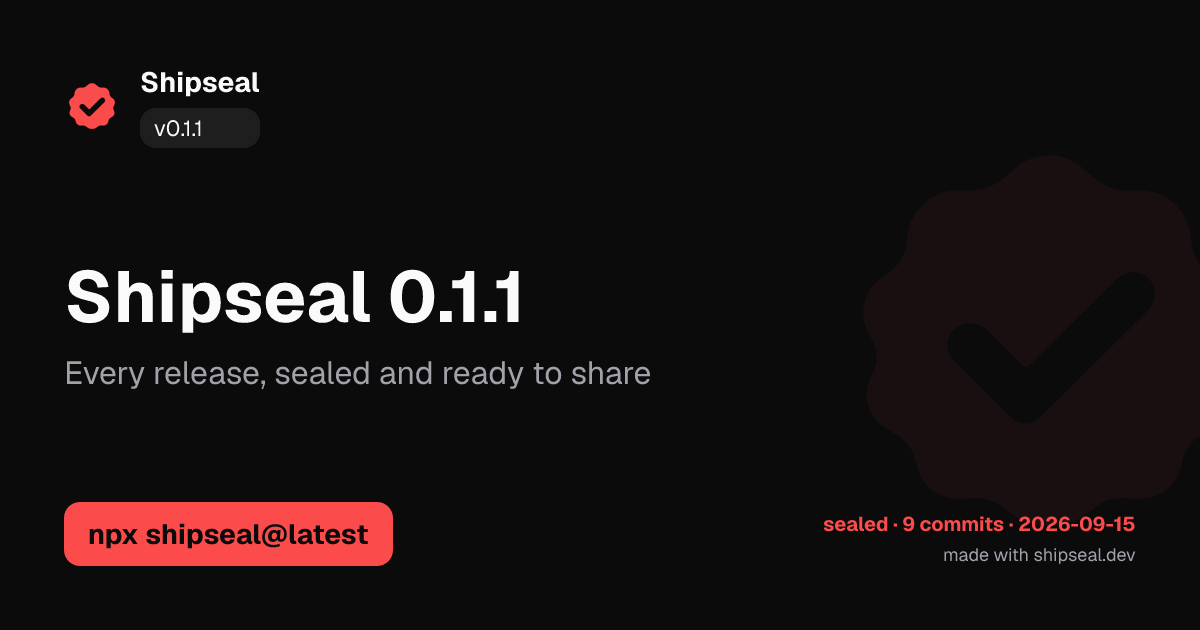
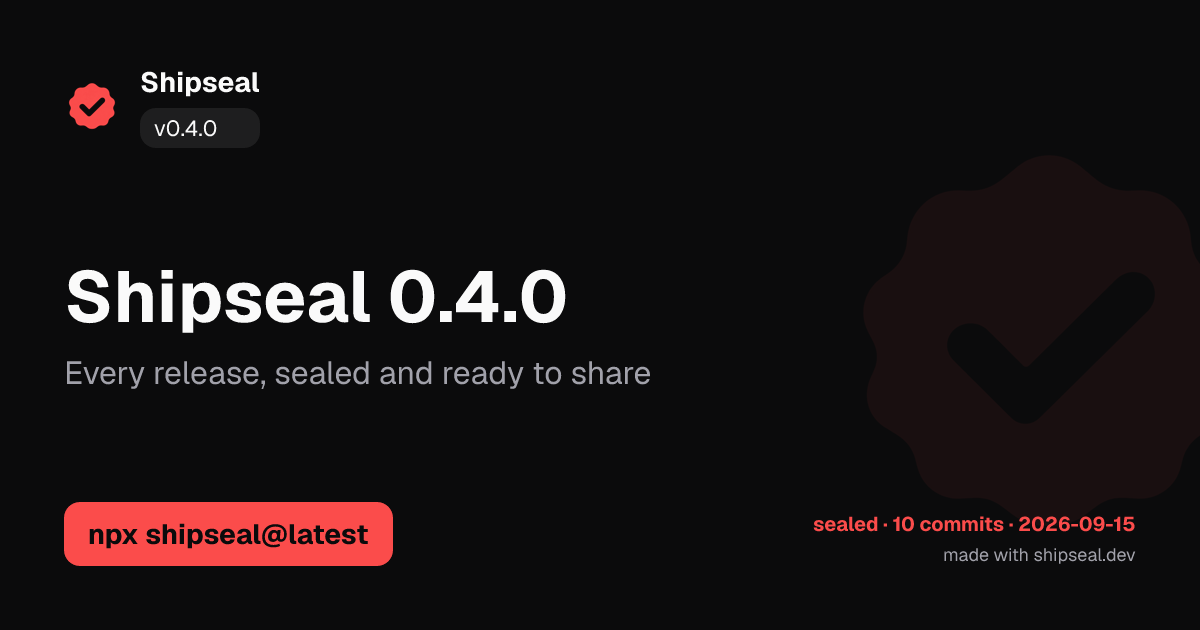
chore: update references to version v0.4.0 in documentation and examples

diff --git a/README.md b/README.md
@@ -17,7 +17,7 @@ Shipseal turns your repo's releases, milestones, and benchmarks into ready-to-po
 
 ## What it produces
 
-Every image below was generated by Shipseal for its own `v0.1.1` release, by the workflow in
+Every image below was generated by Shipseal for its own `v0.4.0` release, by the workflow in
 this repository. Nothing was edited by hand.
 
 <p align="center">
@@ -53,7 +53,7 @@ The percentage is computed from the two numbers you supply, never written by a m
 regression is rendered honestly as a regression.
 
 The same release also produced GitHub social, X, and LinkedIn sizes, plus a highlights card.
-See the [v0.1.1 release](https://github.com/akii09/shipseal/releases/tag/v0.1.1) for the whole
+See the [v0.4.0 release](https://github.com/akii09/shipseal/releases/tag/v0.4.0) for the whole
 pack, attached automatically by the Action.
 
 ## Why
@@ -89,7 +89,7 @@ jobs:
     steps:
       - uses: actions/checkout@v7
         with: { fetch-depth: 0 }
-      - uses: akii09/shipseal@v0.1.1
+      - uses: akii09/shipseal@v0.4.0
         env: { GITHUB_TOKEN: "${{ secrets.GITHUB_TOKEN }}" }
 ```
 

diff --git a/docs/PROJECT_PLAN.md b/docs/PROJECT_PLAN.md
@@ -990,7 +990,7 @@ jobs:
       - uses: actions/checkout@v7
         with:
           fetch-depth: 0   # required: full history and tags for release facts
-      - uses: akii09/shipseal@v0.1.1
+      - uses: akii09/shipseal@v0.4.0
         env:
           GITHUB_TOKEN: ${{ secrets.GITHUB_TOKEN }}
 ```

diff --git a/packages/shipseal/README.md b/packages/shipseal/README.md
@@ -49,7 +49,7 @@ jobs:
     steps:
       - uses: actions/checkout@v7
         with: { fetch-depth: 0 }
-      - uses: akii09/shipseal@v0.1.1
+      - uses: akii09/shipseal@v0.4.0
         env: { GITHUB_TOKEN: "${{ secrets.GITHUB_TOKEN }}" }
 ```
 
